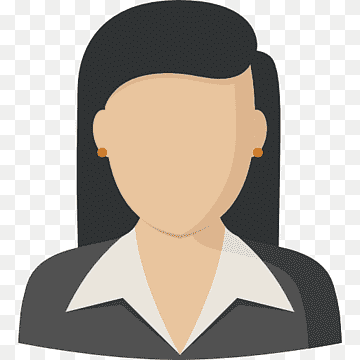
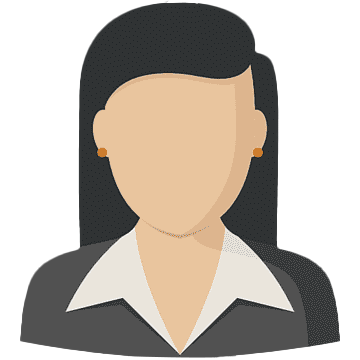
finish viewUser and finish all dashboard in admin

diff --git a/src/components/Admin/ViewUserDialog.jsx b/src/components/Admin/ViewUserDialog.jsx
@@ -1,0 +1,187 @@
+import React from "react";
+import {
+  Input,
+  Button,
+  Dialog,
+  IconButton,
+  Typography,
+  DialogBody,
+  DialogHeader,
+} from "@material-tailwind/react";
+import { XMarkIcon } from "@heroicons/react/24/outline";
+import maleImage from "../../img/userProfile/male-user.png";
+import femaleImage from "../../img/userProfile/female-user.png";
+
+export function ViewUserDialog({ name, email, password, gender, role }) {
+  const [open, setOpen] = React.useState(false);
+  const handleOpen = () => setOpen(!open);
+  return (
+    <>
+      <Button
+        onClick={handleOpen}
+        className="flex  items-center justify-center gap-2 bg-blue-gray-900/10 text-blue-gray-900 shadow-none hover:scale-105 hover:shadow-none focus:scale-105 focus:shadow-none active:scale-100 dark:bg-blue-gray-700 dark:text-gray-200 dark:hover:bg-blue-gray-600"
+      >
+        View
+      </Button>
+
+      <Dialog
+        size="lg"
+        open={open}
+        handler={handleOpen}
+        className="p-4 dark:bg-gray-800 dark:text-gray-100 max-h-[90vh] overflow-y-scroll"
+      >
+        <DialogHeader className="relative m-0 block dark:bg-gray-800">
+          <Typography
+            variant="h4"
+            color="blue-gray"
+            className="dark:text-white"
+          >
+            View User
+          </Typography>
+
+          <Typography className="mt-1 font-normal text-gray-600 dark:text-gray-400">
+            Keep your records up-to-date and organized.
+          </Typography>
+
+          <div className="flex items-center justify-center mt-10">
+            <img src={gender === "male" ? maleImage : femaleImage} />
+          </div>
+
+          <IconButton
+            size="sm"
+            variant="text"
+            className="!absolute right-3.5 top-3.5 dark:text-gray-400"
+            onClick={handleOpen}
+          >
+            <XMarkIcon className="h-4 w-4 stroke-2" />
+          </IconButton>
+        </DialogHeader>
+
+        <DialogBody className="space-y-4 pb-6 dark:bg-gray-800 dark:text-gray-100">
+          <main className="flex flex-col gap-3">
+            <div>
+              <Typography
+                variant="small"
+                color="blue-gray"
+                className="mb-2 text-left font-medium dark:text-gray-200"
+              >
+                Name
+              </Typography>
+              <Input
+                className="placeholder:opacity-100 focus:!border-t-gray-900 dark:bg-gray-700 dark:text-gray-100 dark:border-gray-600"
+                disabled
+                color="gray"
+                size="lg"
+                placeholder="Enter your name"
+                value={name}
+                containerProps={{
+                  className: "!min-w-full",
+                }}
+                labelProps={{
+                  className: "hidden",
+                }}
+              />
+            </div>
+
+            <div>
+              <Typography
+                variant="small"
+                color="blue-gray"
+                className="mb-2 text-left font-medium dark:text-gray-200"
+              >
+                Email
+              </Typography>
+              <Input
+                disabled
+                color="gray"
+                size="lg"
+                placeholder="eg. example@gmail.com"
+                value={email}
+                className="placeholder:opacity-100 focus:!border-t-gray-900 dark:bg-gray-700 dark:text-gray-100 dark:border-gray-600"
+                containerProps={{
+                  className: "!min-w-full",
+                }}
+                labelProps={{
+                  className: "hidden",
+                }}
+              />
+            </div>
+
+            <div>
+              <Typography
+                variant="small"
+                color="blue-gray"
+                className="mb-2 text-left font-medium dark:text-gray-200"
+              >
+                Gender
+              </Typography>
+              <Input
+                disabled
+                color="gray"
+                size="lg"
+                placeholder="eg. example@gmail.com"
+                value={gender}
+                className="placeholder:opacity-100 focus:!border-t-gray-900 dark:bg-gray-700 dark:text-gray-100 dark:border-gray-600"
+                containerProps={{
+                  className: "!min-w-full",
+                }}
+                labelProps={{
+                  className: "hidden",
+                }}
+              />
+            </div>
+
+            <div>
+              <Typography
+                variant="small"
+                color="blue-gray"
+                className="mb-2 text-left font-medium dark:text-gray-200"
+              >
+                Role
+              </Typography>
+              <Input
+                disabled
+                color="gray"
+                size="lg"
+                placeholder="eg. example@gmail.com"
+                value={role}
+                className="placeholder:opacity-100 focus:!border-t-gray-900 dark:bg-gray-700 dark:text-gray-100 dark:border-gray-600"
+                containerProps={{
+                  className: "!min-w-full",
+                }}
+                labelProps={{
+                  className: "hidden",
+                }}
+              />
+            </div>
+
+            <div>
+              <Typography
+                variant="small"
+                color="blue-gray"
+                className="mb-2 text-left font-medium dark:text-gray-200"
+              >
+                Password
+              </Typography>
+              <Input
+                disabled
+                color="gray"
+                size="lg"
+                placeholder=""
+                name="password"
+                value={password}
+                className="placeholder:opacity-100 focus:!border-t-gray-900 dark:bg-gray-700 dark:text-gray-100 dark:border-gray-600"
+                containerProps={{
+                  className: "!min-w-full",
+                }}
+                labelProps={{
+                  className: "hidden",
+                }}
+              />
+            </div>
+          </main>
+        </DialogBody>
+      </Dialog>
+    </>
+  );
+}

diff --git a/src/components/Admin/UsersTable.jsx b/src/components/Admin/UsersTable.jsx
@@ -14,6 +14,7 @@ import maleUserImg from "../../img/userProfile/male-user.png";
 import { EditUserDialog } from "./EditUserDialog";
 import { RemoveUserDialog } from "./RemoveUserDialog";
 import { ChangeRoleDialog } from "./ChangeRoleDialog";
+import { ViewUserDialog } from "./ViewUserDialog";
 
 const TABLE_HEAD = [
   "User Name",
@@ -117,7 +118,15 @@ export function UsersTable() {
                       </Typography>
                     </td>
 
-                    <td className={`${classes} `}>viewUser</td>
+                    <td className={`${classes} `}>
+                      <ViewUserDialog
+                        name={name}
+                        email={email}
+                        password={password}
+                        gender={gender}
+                        role={role}
+                      />
+                    </td>
                     <td className={`${classes} `}>
                       <EditUserDialog
                         id={id}
